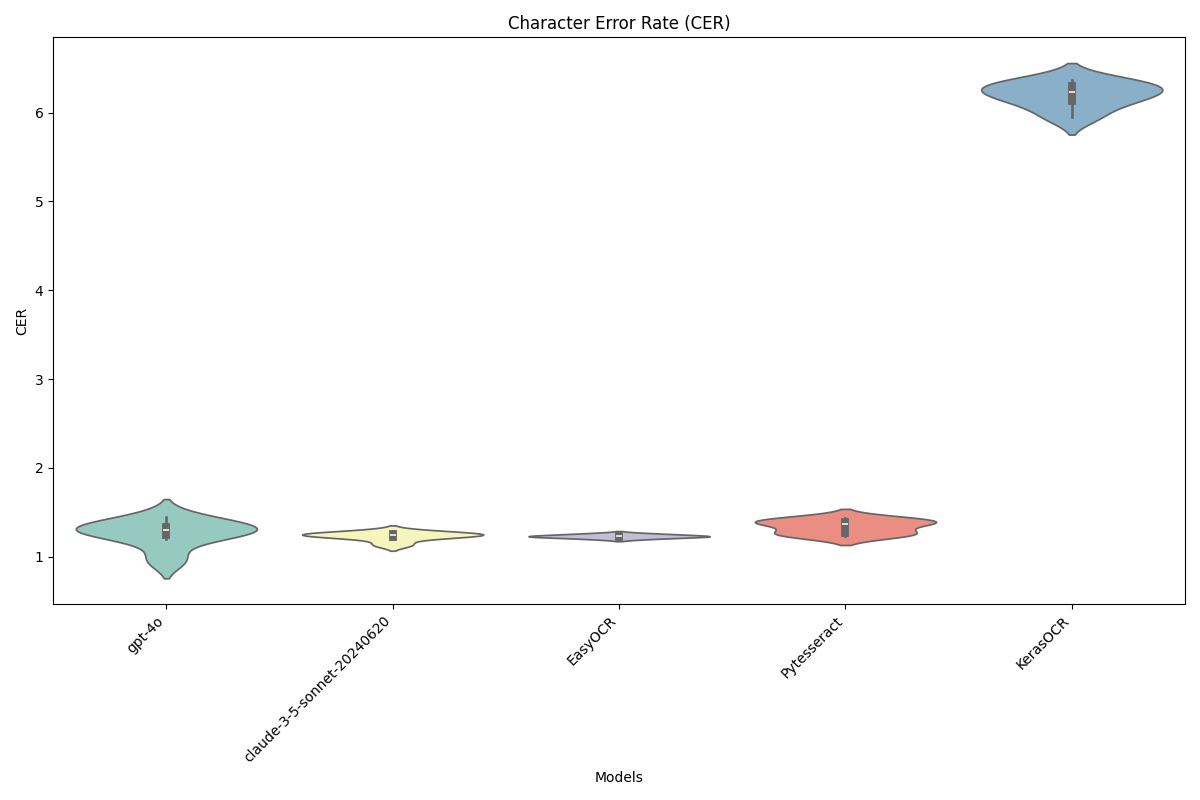
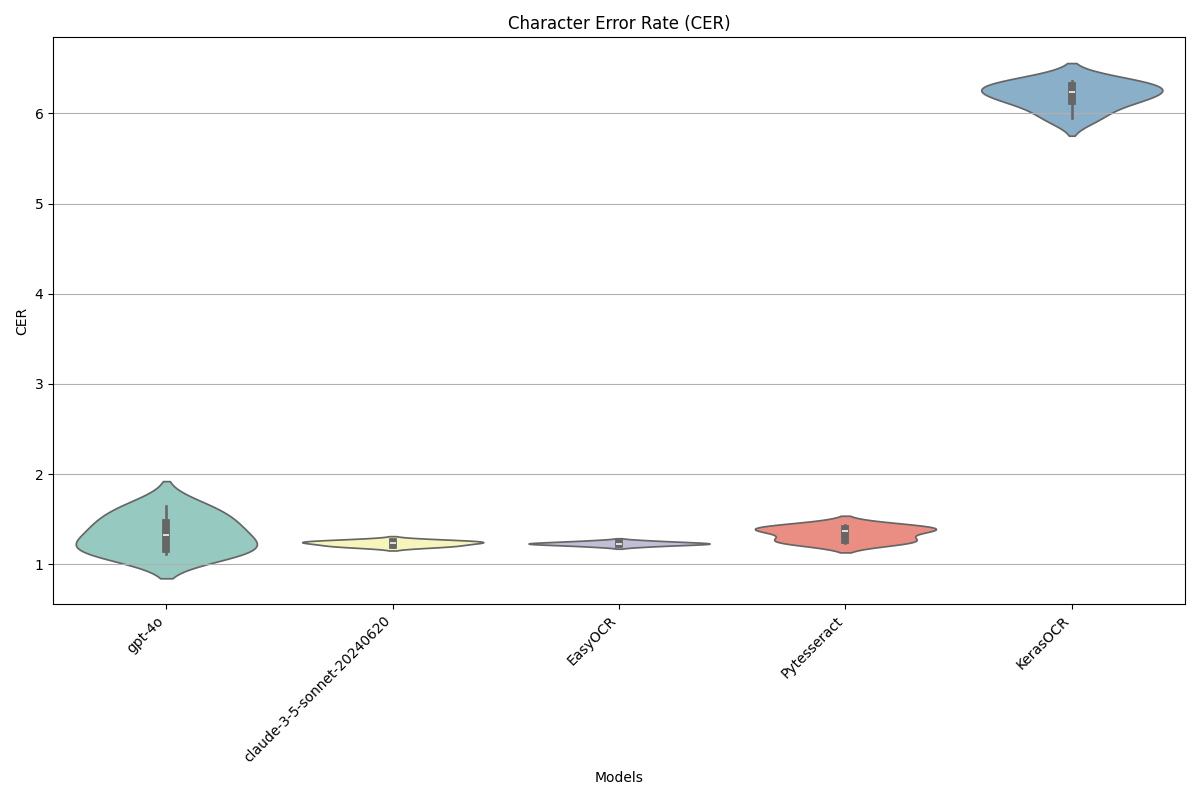
Zero-shot complex and simple prompt

diff --git a/lib/agent.py b/lib/agent.py
@@ -113,6 +113,7 @@ class Agent:
                         ],
                     }
                 ],
+                temperature=0,
             )
             return response.to_dict()["content"][0]["text"]
         except Exception as e:
@@ -183,6 +184,48 @@ class Agent:
         else:
             base64_image = self.encode_image(image_path)
         prompt = "Recreate the content of the table in this image. Only that, no other information from you."
+        
+        prompt = f"""
+                From the example, you learned the handwriting of this Belgian record. You learned which alphabet and which number is written in which way.
+                With this knowledge, now consider the following image to recreate:
+                
+                First, you read a two-level header in the table, which you recognize the same as the example as follows in the form of ("first level", "second level"):
+                ```
+                    [("N' d'ordre", " "),
+                    ("Date du dépot des déclarations", " "),
+                    ("Désignation des personnes décédées ou absentes.:", "Nom."),
+                    ("Désignation des personnes décédées ou absentes.:", "Prénoms"),
+                    ("Désignation des personnes décédées ou absentes.:", "Domiciles"), 
+                    ("Date du décès ou du judgement d'envoi en possession, en cas d'absence.", " "),
+                    ("Noms, Prénoms et demeures des parties déclarantes.", " "),
+                    ("Droits de succession en ligne collatérale et de mutation en ligne directe.", "Actif. (2)"),
+                    ("Droits de succession en ligne collatérale et de mutation en ligne directe.", "Passif. (2)"),
+                    ("Droits de succession en ligne collatérale et de mutation en ligne directe.", "Restant NET. (2)"),
+                    ("Droit de mutation par déces", "Valeur des immeubles. (2)"), 
+                    ("Numéros des déclarations", "Primitives."),
+                    ("Numéros des déclarations", "Supplémentaires."), 
+                    ("Date", "de l'expiration du délai de rectification."),
+                    ("Date", "de l'exigibilité des droits."),
+                    ("Numéros de la consignation des droits au sommier n' 28", " "),
+                    ("Recette des droits et amendes.", "Date"),
+                    ("Recette des droits et amendes.", "N^03"),
+                    ("Cautionnements. ", "Numéros de la consignation au sommier n'30"),
+                    ("Observations (les déclarations qui figurent à l'état n'413 doivent être émargées en conséquence, dans la présnete colonne.)", " ")] 
+                ```
+
+                Context: 
+                - It's written in French language and the names of the people are domiciles are Belgian.
+                - Each row contains information about a dead person for the 20 variables above. Some rows contain information about the service date of the dead person written in the previous row. Such rows begin with texts like "Arrêté le \d{2} \w+ \d{4}( \w+)? servais" under "Nom." variable. 
+                - When you see "Arrêté le \d{2} \w+ \d{4}( \w+)? servais", the subsequent row will be the next serviced day.
+                - N' d'ordre will also follow an order. 
+                - The family name in this column "Noms, Prénoms et demeures des parties déclarantes." may be the same as the family name in "Nom." column.
+                
+                Task: 
+                Please recreate the table by filling in all the information in the record. Pay attention to reading each word and number correctly. 
+                    ```plaintext
+        """
+
+        
         return self.call(prompt, max_tokens=3000, base64_image=base64_image)
 
     # TODO: Add the image ? 

diff --git a/lib/ocr.py b/lib/ocr.py
@@ -6,10 +6,10 @@ import keras_ocr
 
 # Download: https://github.com/UB-Mannheim/tesseract/wiki
 
-# On Asus VivoBook
-#pytesseract.pytesseract.tesseract_cmd = "C:/Program Files/Tesseract-OCR/tesseract.exe"
-# On Office PC
-pytesseract.pytesseract.tesseract_cmd = "C:/Users/julien/AppData/Local/Programs/Tesseract-OCR/tesseract.exe"
+# On Asus VivoBook & Office PC
+pytesseract.pytesseract.tesseract_cmd = "C:/Program Files/Tesseract-OCR/tesseract.exe"
+# On Home PC
+#pytesseract.pytesseract.tesseract_cmd = "C:/Users/julien/AppData/Local/Programs/Tesseract-OCR/tesseract.exe"
 
 class OCR:
     

diff --git a/main.py b/main.py
@@ -137,7 +137,7 @@ def evaluate():
             result = method(image_path)
             append_result(texts, key, result)
 
-    tools.compare_texts_violin_plot(texts, "one-shot_simple-prompt")
+    tools.compare_texts_violin_plot(texts, "one-shot_complex-prompt")
 
 
 

diff --git a/lib/tools.py b/lib/tools.py
@@ -182,6 +182,7 @@ class Tools:
         plt.xticks(rotation=45, ha='right')
         # Display the plot
         plt.tight_layout()
+        plt.grid(axis='y')
         plt.savefig("results/comparisons/" + image_name + "_violinplot.png")
         plt.show()
 
